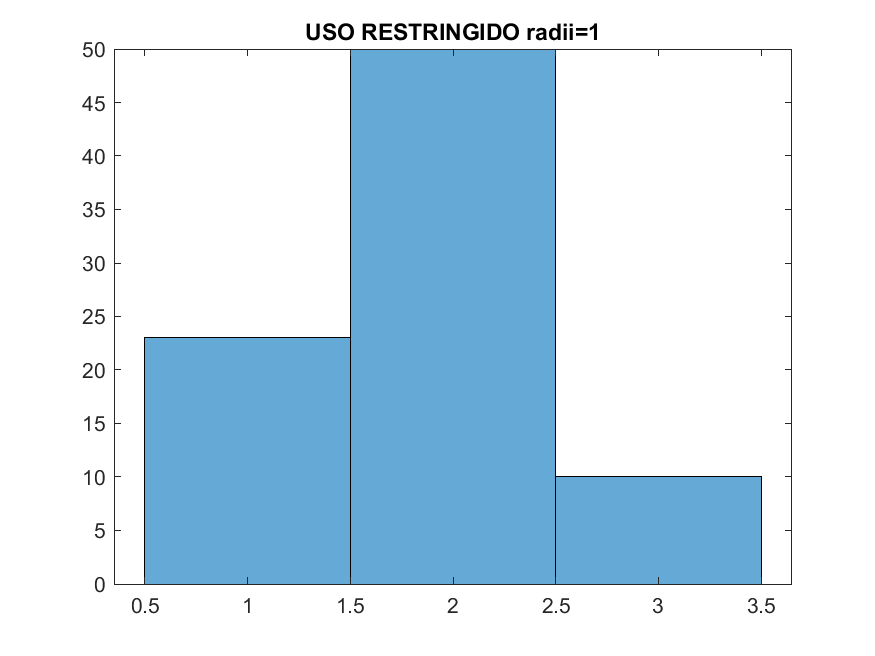
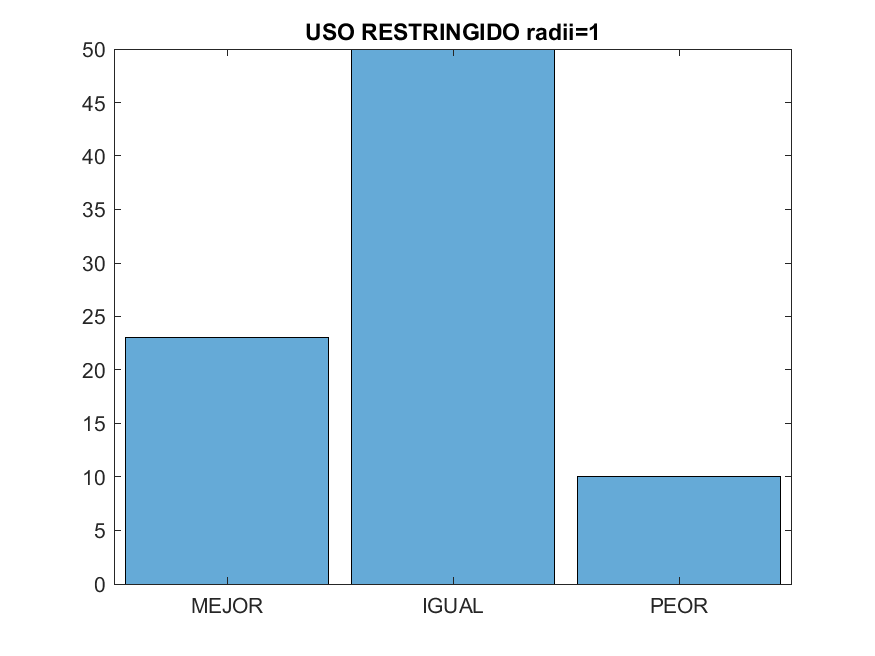
fixed plot labels

diff --git a/centroids_frequencies.m b/centroids_frequencies.m
@@ -4,9 +4,13 @@ load("datos_colegios.mat")
 load("datos_todos.mat")
 
 pancarta={'INSPECCIONADO','USO RESTRINGIDO','INSEGURO'};
-color={'*r','*b','*g'};
+desempeno={'MEJOR','IGUAL','PEOR'};
+color={'*g','*y','*r'};
+rgb=[0, 0.5, 0;
+    0.9290, 0.6940, 0.1250;
+    1, 0, 0];
 
-radii=1;
+radii=0.2;
 root='Imagenes';
 
 exppath=fullfile(root,[num2str(radii*1000) 'm']);
@@ -20,15 +24,23 @@ if(not(exist(exppath,'dir')))
 end
 
 
-for k=1:3
+for pancarta_estado=1:3
+
+    if pancarta_estado==1
+        rgb_colors=rgb([2 3],:);
+    else
+        rgb_colors=rgb;
+    end
+    
     %Los centroides son colegios, agrupamos por pancarta para ver
     %frecuencias
-    centroids=damage(ismember(damage(:,3),k),[1 2]);
+    centroids=damage(ismember(damage(:,3),pancarta_estado),[1 2]);
     
     d=nn_distance(centroids(:,1),centroids(:,2),danos(:,1),danos(:,2),radii);
     [~,Colegios]=size(d);
     
     dist=[];
+    colors=zeros(Colegios,1);
     for Colegio=1:Colegios
         frec=zeros(3,1);
         dist=[dist;danos(d(:,Colegio)==1,3)];
@@ -38,13 +50,16 @@ for k=1:3
         else
             frec=frec+t(:,2);
         end
-        [~,i]=max(frec);
-        if (i<k)
+        [~,index]=max(frec);
+        if (index<pancarta_estado)
             centroids(Colegio,3)=1;
-        elseif (i>k)
+            colors=color{1};
+        elseif (index>pancarta_estado)
             centroids(Colegio,3)=3;
+            colors=color{2};
         else
             centroids(Colegio,3)=2;
+            colors=color{3};
         end
     end
     
@@ -54,18 +69,19 @@ for k=1:3
 %     geobasemap('landcover')
 
     figure('name','Colegios-Ecuador (Burbujas)');
-    geobubble(centroids(:,1),centroids(:,2),10,categorical(pancarta(centroids(:,3))));
+    %geobubble(centroids(:,1),centroids(:,2),10,categorical(pancarta(centroids(:,3))));
+    geobubble(centroids(:,1),centroids(:,2),10,categorical(desempeno(centroids(:,3))),'BubbleColorList',rgb_colors);
     set(gcf,'NumberTitle','off','Position', get(0, 'Screensize'));
     geobasemap('landcover')
-    pname=['Bubbles ' num2str(radii) ' km ' pancarta{k} '.png'];
+    pname=['Bubbles ' num2str(radii) ' km ' pancarta{pancarta_estado} '.png'];
     saveas(gcf,fullfile(mapspath,pname))
         
     pause(5)
     
     figure('name','Colegios-Ecuador (Histograma)');
-    histogram(centroids(:,3))
-    title([pancarta{k} ' radii=' num2str(radii)]);
-    pname=['Histogram ' num2str(radii) ' km ' pancarta{k} '.png'];
+    histogram(categorical(centroids(:,3),[1 2 3],desempeno))
+    title([pancarta{pancarta_estado} ' radii=' num2str(radii)]);
+    pname=['Histogram ' num2str(radii) ' km ' pancarta{pancarta_estado} '.png'];
     saveas(gcf,fullfile(histspath,pname))
     pause(5)
     

diff --git a/map_frequencies.m b/map_frequencies.m
@@ -1,0 +1,72 @@
+clc;clearvars;close all;
+
+load("datos_colegios.mat")
+load("datos_todos.mat")
+
+pancarta={'1-INSPECCIONADO','2-USO RESTRINGIDO','3-INSEGURO'};
+desempeno={'MEJOR','IGUAL','PEOR'};
+color={'*g','*y','*r'};
+rgb=[0, 0.5, 0;
+    0.9290, 0.6940, 0.1250;
+    1, 0, 0];
+
+radii=1;
+root='Imagenes2';
+
+exppath=fullfile(root,[num2str(radii*1000) 'm']);
+mapspath=fullfile(root,[num2str(radii*1000) 'm'],'Maps');
+histspath=fullfile(root,[num2str(radii*1000) 'm'],'Histograms');
+
+if(not(exist(exppath,'dir')))
+    mkdir(exppath)
+    mkdir(mapspath)
+    mkdir(histspath)
+end
+
+
+for pancarta_estado=1:3
+    %Los centroides son colegios, agrupamos por pancarta para ver
+    %frecuencias
+    centroids=damage(ismember(damage(:,3),pancarta_estado),[1 2]);
+    
+    d=nn_distance(centroids(:,1),centroids(:,2),danos(:,1),danos(:,2),radii);
+    [~,Colegios]=size(d);
+    
+    dist=[];
+    colors=zeros(Colegios,1);
+    for Colegio=1:Colegios
+        frec=zeros(3,1);
+        t=tabulate(danos(d(:,Colegio)==1,3));
+        if length(t(:,1))<3
+            frec(t(:,1))=frec(t(:,1))+t(:,2);
+        else
+            frec=frec+t(:,2);
+        end
+        [~,index]=max(frec);
+        centroids(Colegio,3)=index;
+    end
+    
+%     figure('name','Colegios-Ecuador');
+%     geoscatter(centroids(:,1),centroids(:,2),20,centroids(:,3))
+%     set(gcf,'NumberTitle','off','Position', get(0, 'Screensize'));
+%     geobasemap('landcover')
+
+    close all;
+    
+    figure('name','Colegios-Ecuador (Burbujas)');
+    %geobubble(centroids(:,1),centroids(:,2),10,categorical(pancarta(centroids(:,3))));
+    geobubble(centroids(:,1),centroids(:,2),10,categorical(pancarta(centroids(:,3))),'BubbleColorList',rgb);
+    set(gcf,'NumberTitle','off','Position', get(0, 'Screensize'));
+    geobasemap('landcover')
+    pname=['Bubbles ' num2str(radii) ' km ' pancarta{pancarta_estado} '.png'];
+    saveas(gcf,fullfile(mapspath,pname))
+        
+    pause(5)
+    
+    figure('name','Colegios-Ecuador (Histograma)');
+    histogram(categorical(centroids(:,3),[1 2 3],pancarta))
+    title([pancarta{pancarta_estado} ' radii=' num2str(radii)]);
+    pname=['Histogram ' num2str(radii) ' km ' pancarta{pancarta_estado} '.png'];
+    saveas(gcf,fullfile(histspath,pname))
+    pause(5)    
+end
